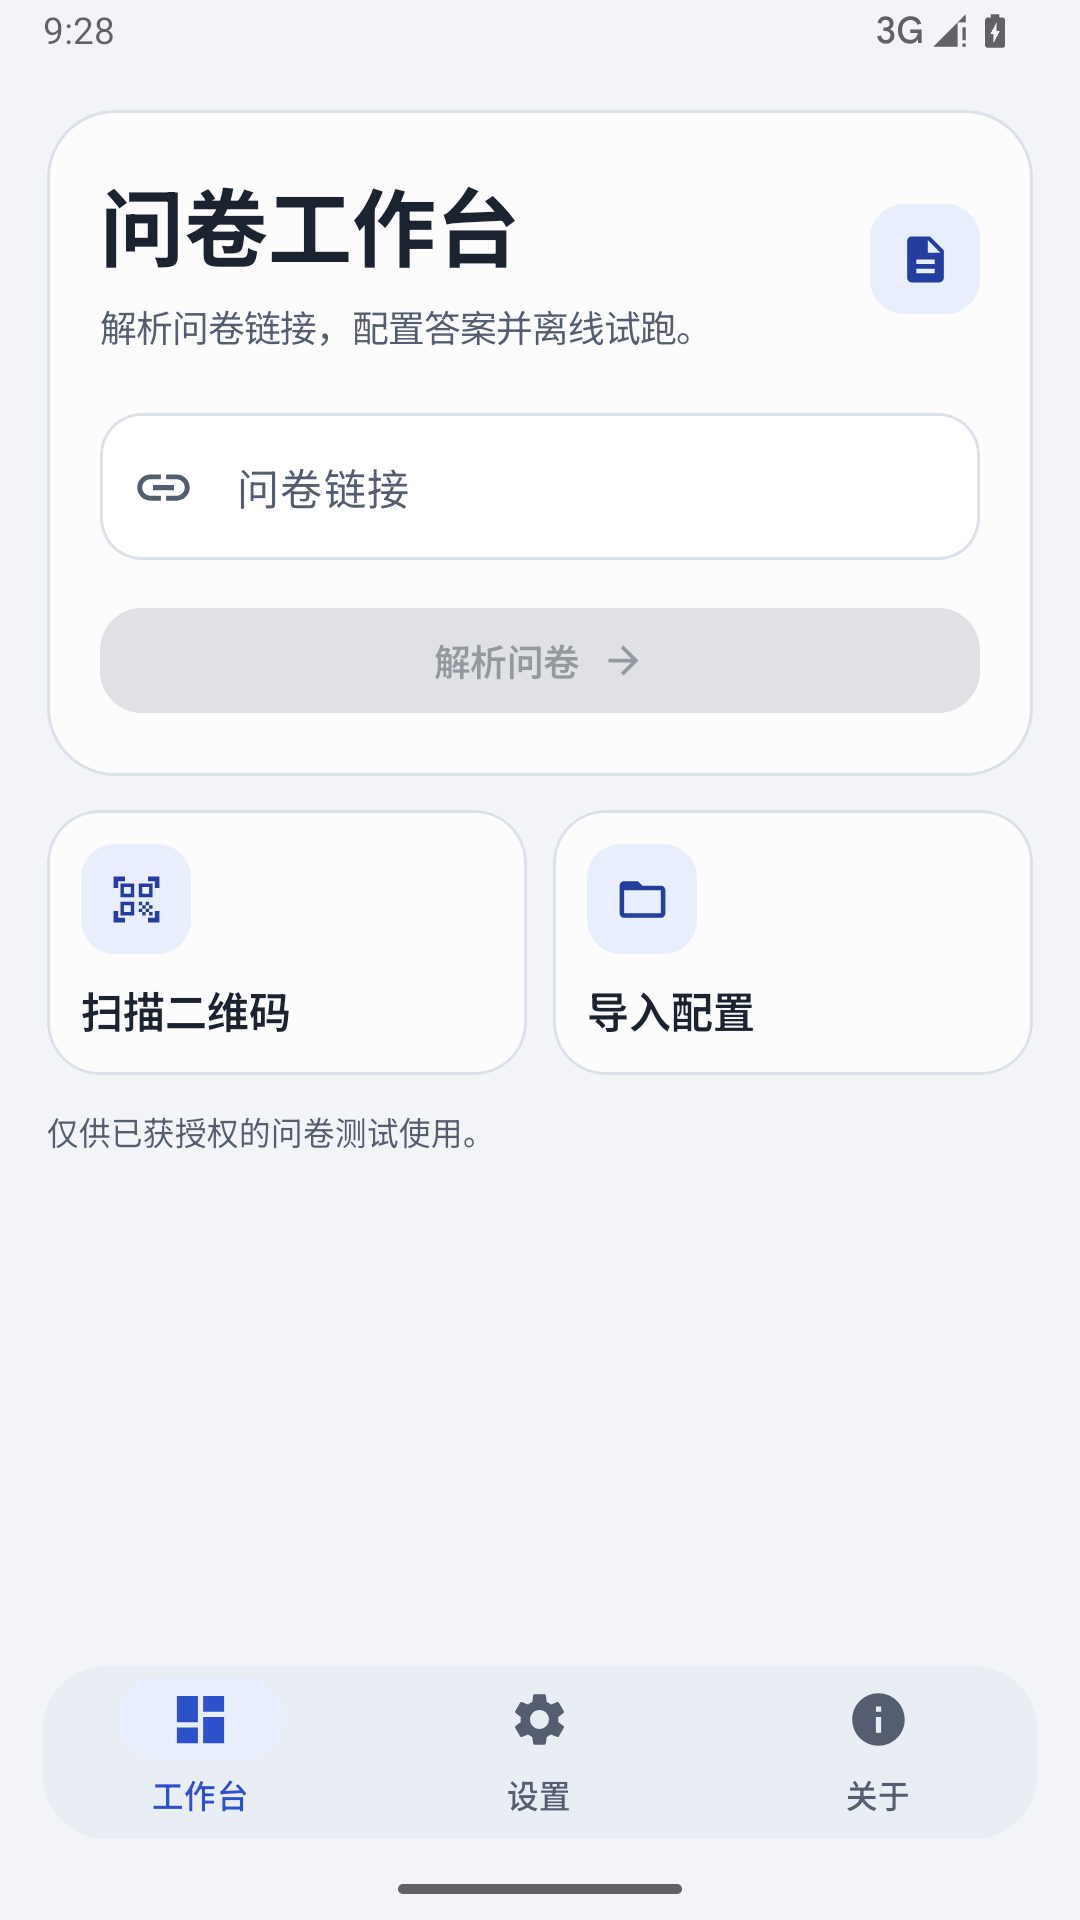
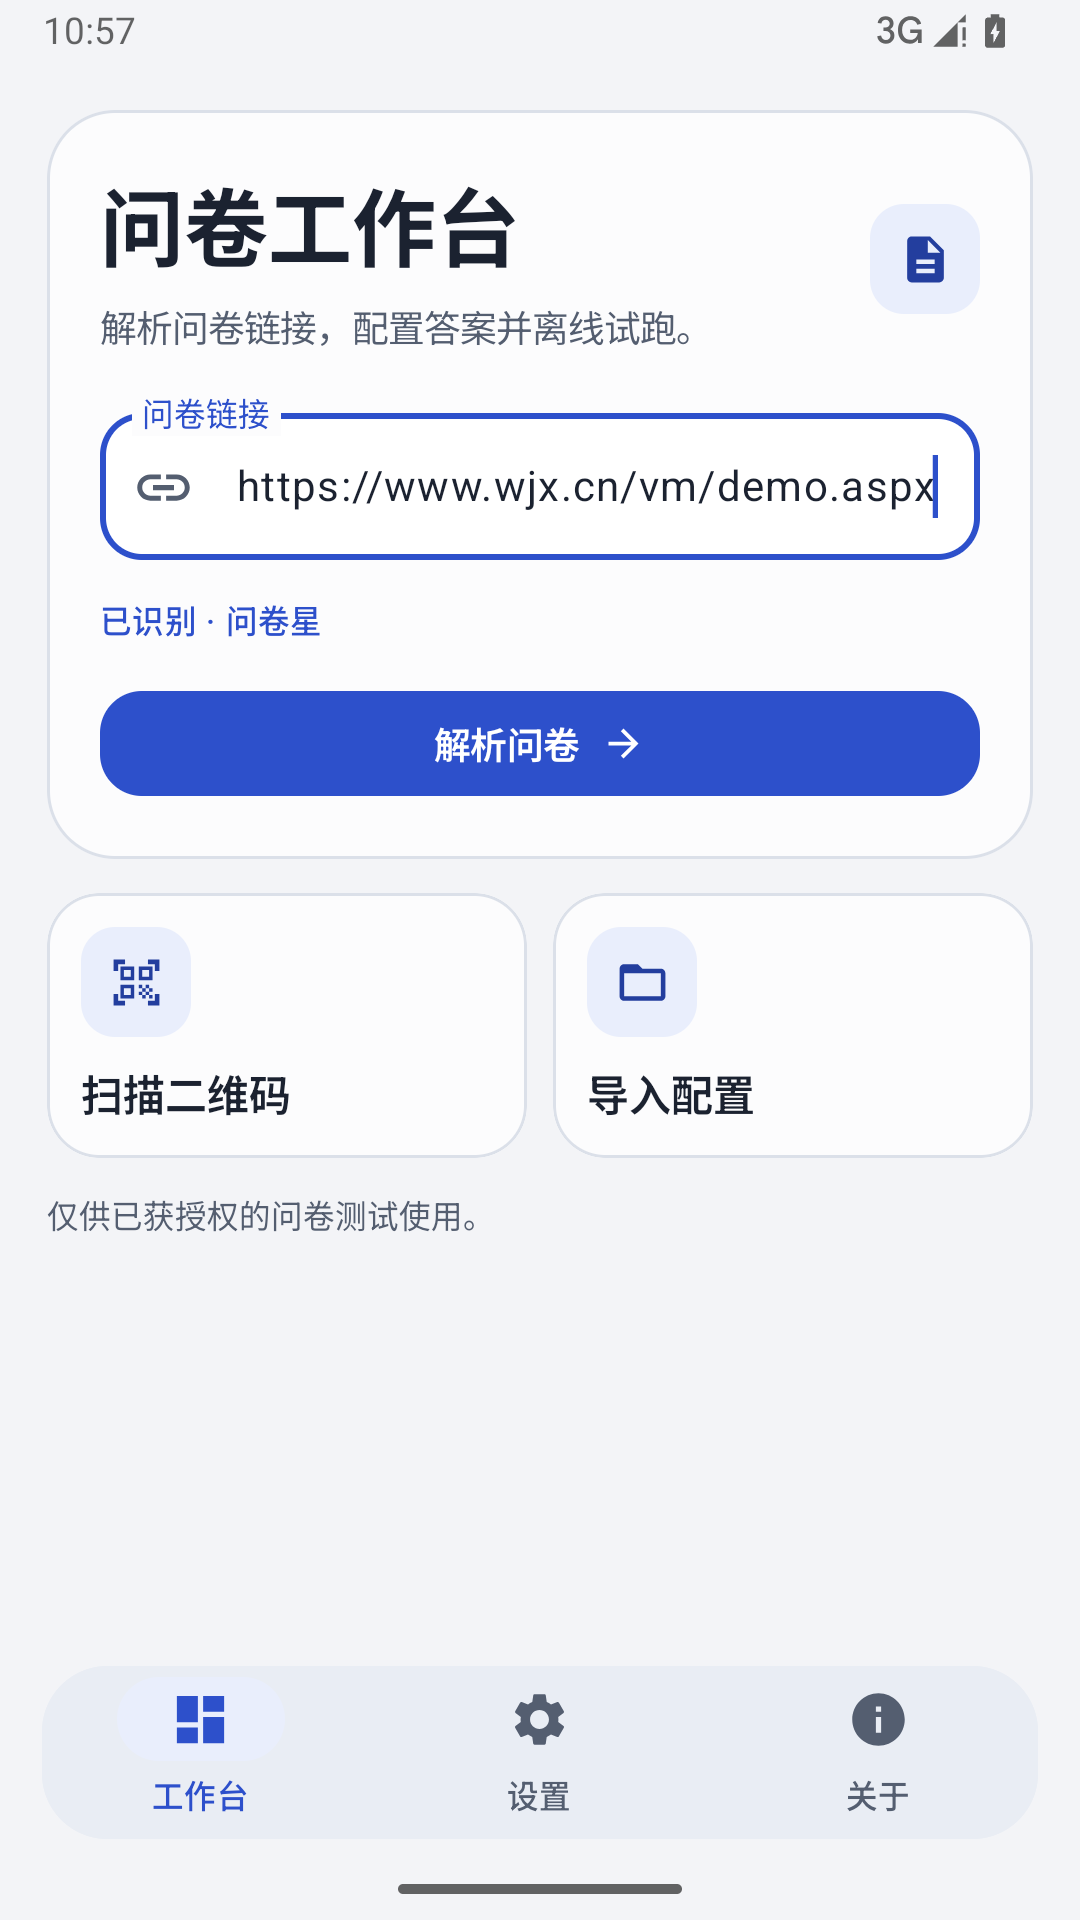
chore: 准备 Android v2.2.0 发布

diff --git a/app/src/main/java/com/surveycontroller/android/app/AppVersion.kt b/app/src/main/java/com/surveycontroller/android/app/AppVersion.kt
@@ -2,7 +2,7 @@ package com.surveycontroller.android.app
 
 /** 版本与 GitHub 仓库常量。对标桌面端 software/app/version.py。 */
 object AppVersion {
-    const val VERSION = "2.1.0"
+    const val VERSION = "2.2.0"
     const val GITHUB_OWNER = "shiaho777"
     const val GITHUB_REPO = "SurveyController-Android"
 

diff --git a/AGENTS.md b/AGENTS.md
@@ -8,7 +8,7 @@
 - **项目性质**：SurveyController 官方 Windows 桌面端的 **安卓端独立移植版**
 - **GitHub 仓库**：https://github.com/shiaho777/SurveyController-Android
 - **License**：GPL-3.0（与官方一致）
-- **当前版本**：v2.1.0（官方桌面 v5.0.1，跟进 Windows a23e35f 与核心库 299b6bf）
+- **当前版本**：v2.2.0（官方桌面 v5.0.1，跟进 Windows a23e35f 与核心库 299b6bf）
 
 ## 官方源仓库
 
